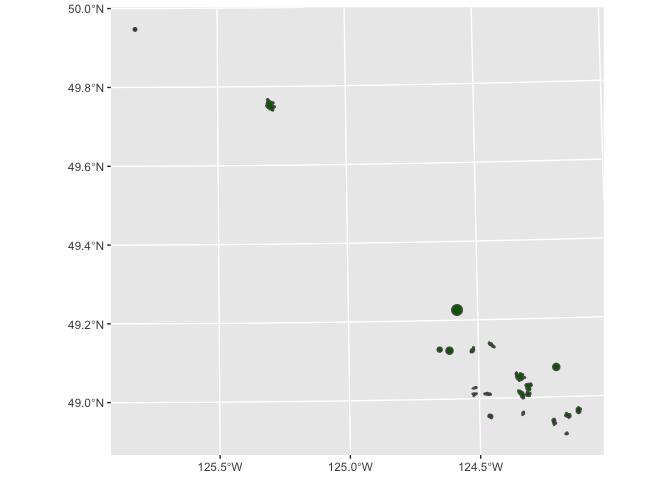
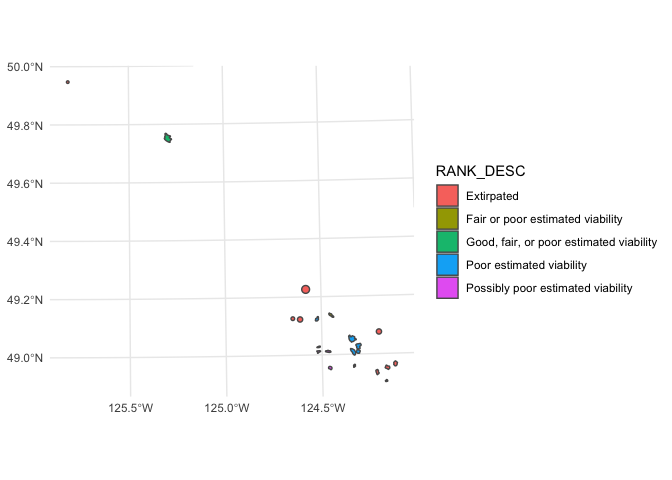
JOSS - tidy up sp-eco example

diff --git a/inst/JOSS/paper.md b/inst/JOSS/paper.md
@@ -225,7 +225,7 @@ system.time(
 
 ```
    user  system elapsed 
- 33.421   8.034  64.801 
+ 35.294  11.259 104.085 
 ```
 
 ```r
@@ -252,7 +252,7 @@ system.time({
 
 ```
    user  system elapsed 
-  0.260   0.013   1.058 
+  0.316   0.015   1.377 
 ```
 
 ```r
@@ -264,18 +264,18 @@ format(object.size(marmots2), units = "Mb")
 ```
 
 ```r
-# Check the two final objects are the same
-all.equal(marmots, marmots2, check.attributes = FALSE)
+# Check the two final objects are the same 
+all.equal(st_geometry(marmots), st_geometry(marmots2))
 ```
 
 ```
-[1] "Component \"id\": 14 string mismatches"
+[1] TRUE
 ```
 
 ```r
 ## Plot the Marmot occurrences with ggplot()
 ggplot(marmots2) +
-  geom_sf(fill = "darkgreen")
+  geom_sf(aes(fill = RANK_DESC))
 ```
 
 ![](sp_eco-1.png)<!-- -->
